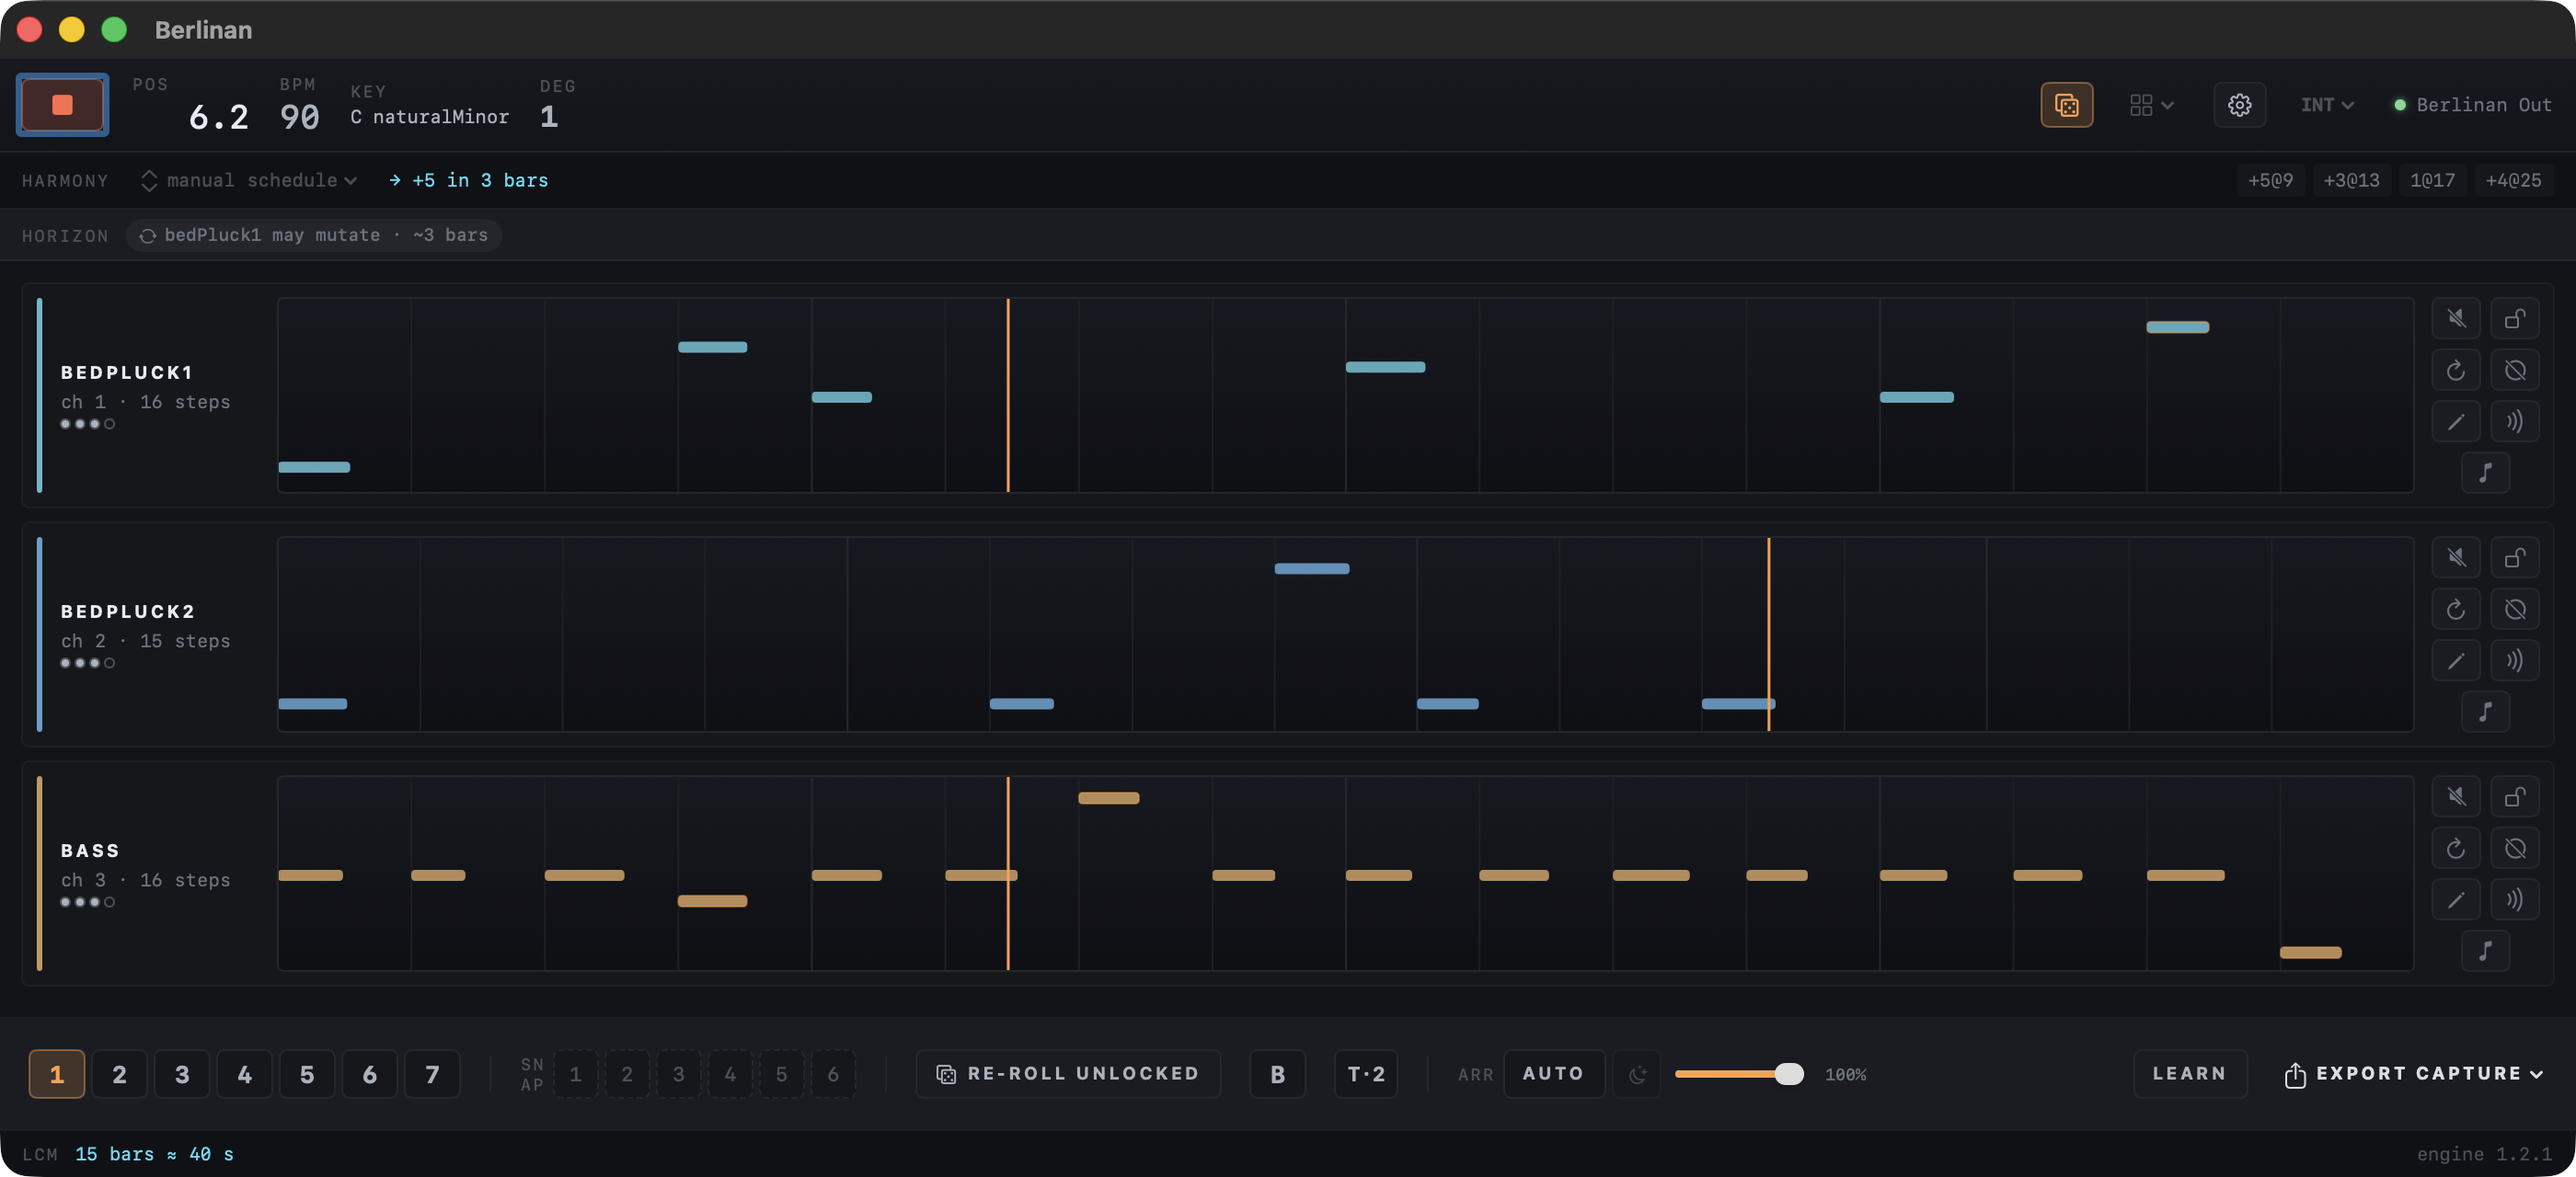
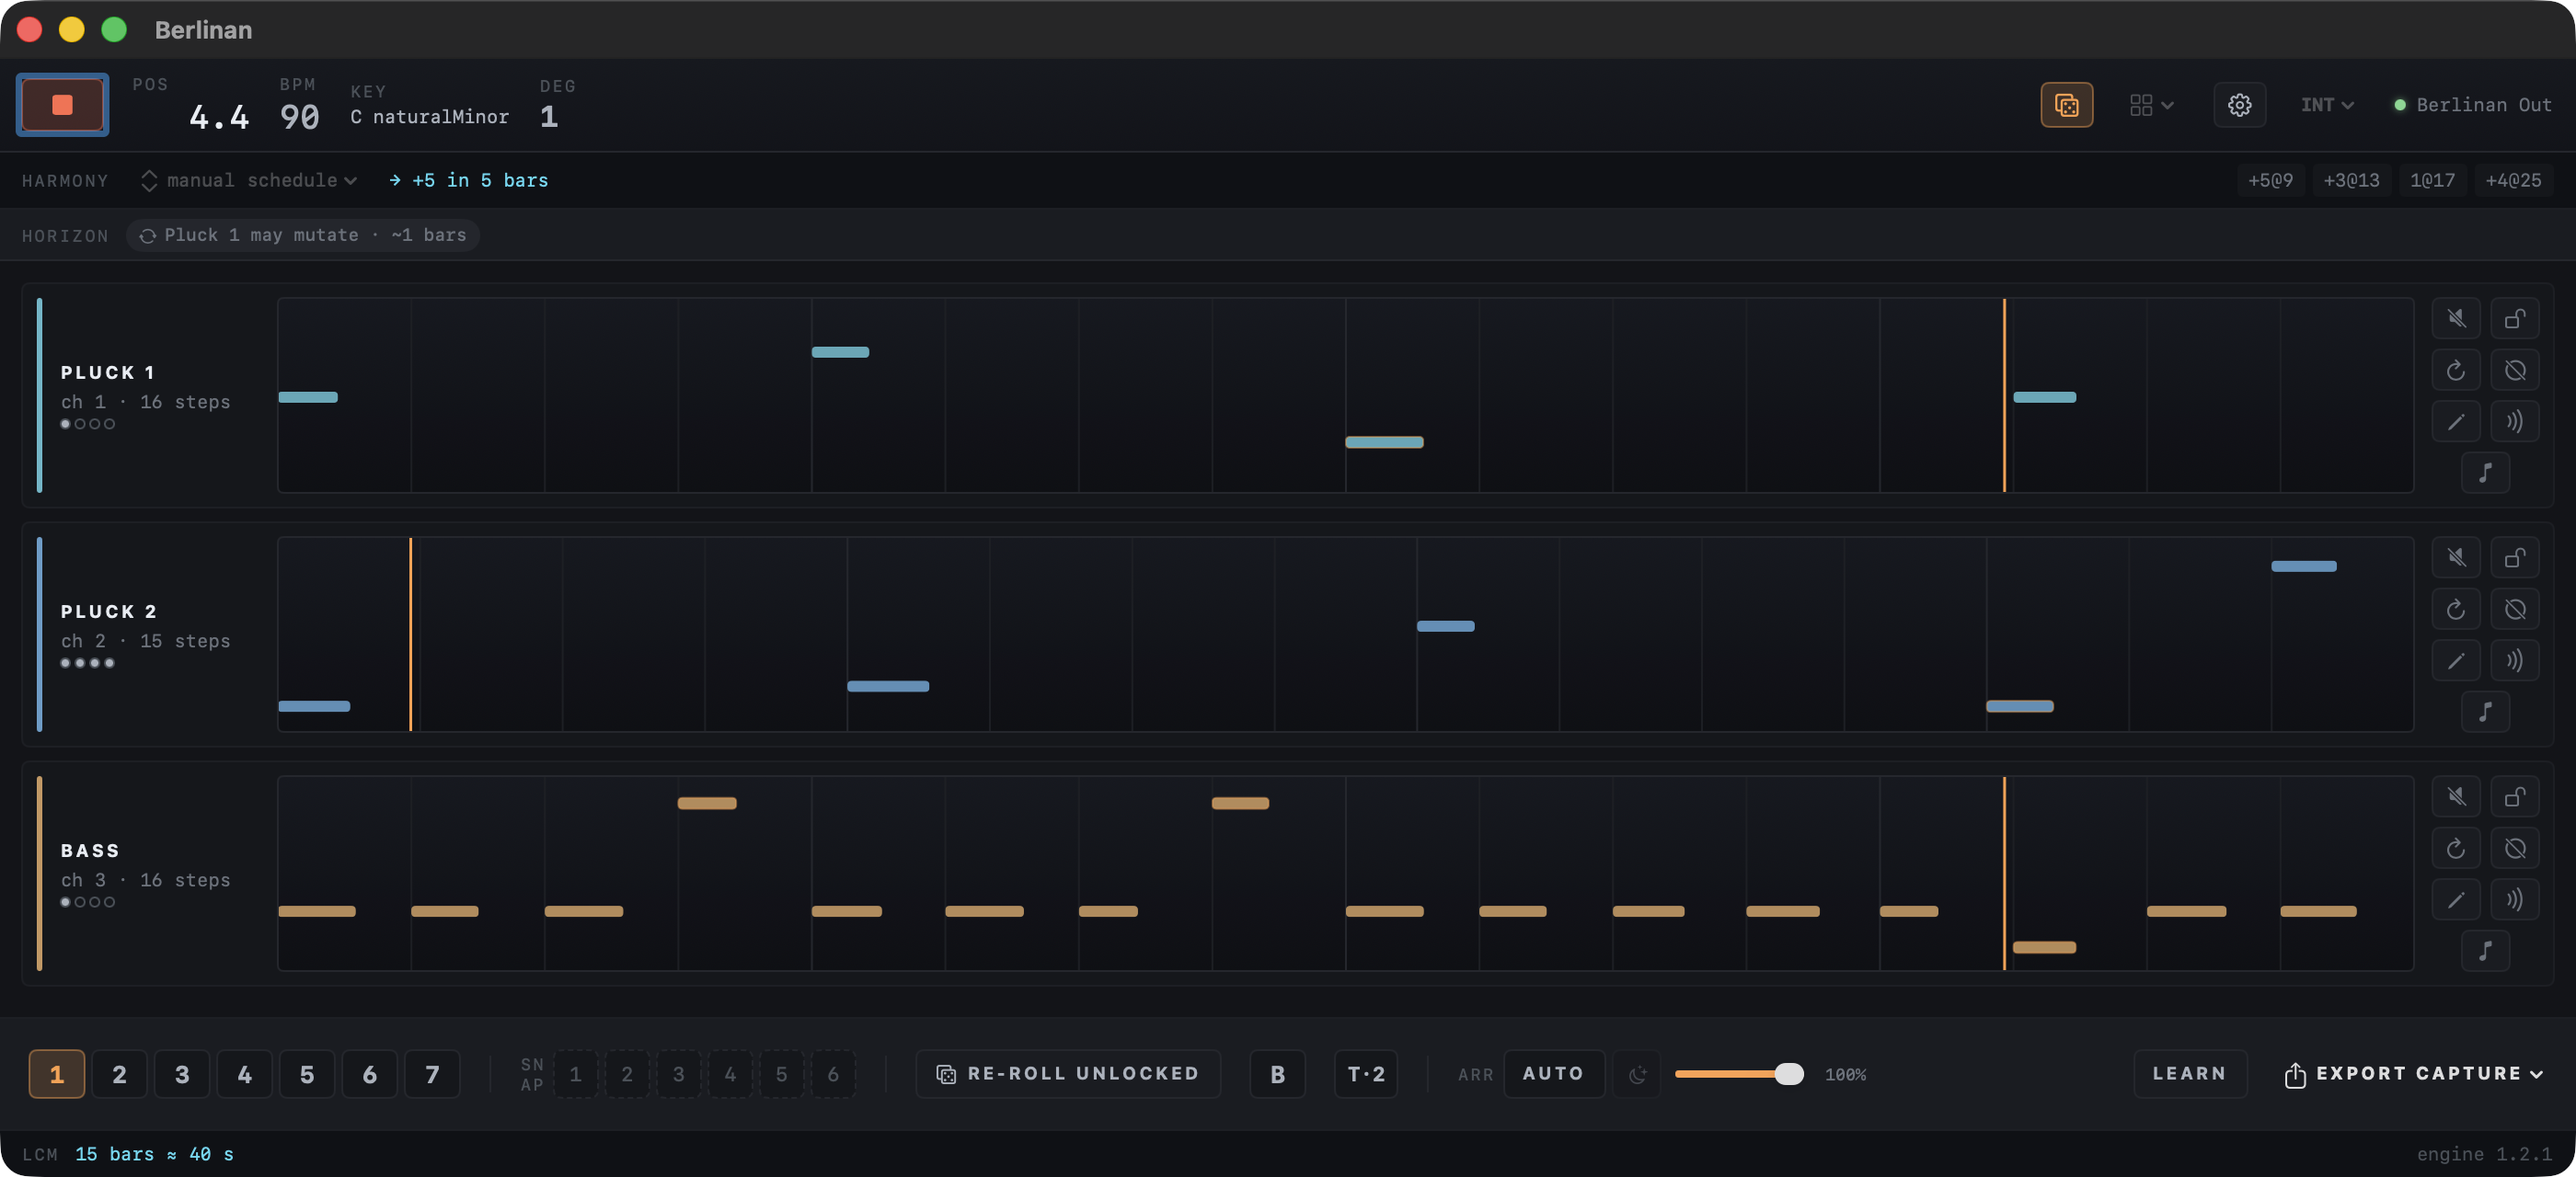
docs(site): routing list uses the app's voice names, labelled as the Full ensemble template; refreshed screenshot

diff --git a/docs/index.html b/docs/index.html
@@ -175,6 +175,9 @@
   .routing {
     display: grid; grid-template-columns: 1fr 1fr; gap: clamp(2rem, 6vw, 5rem); align-items: start;
   }
+  .routing-example { margin: 0; }
+  .routing-example figcaption { margin-bottom: 1rem; color: var(--ink2); font-size: .95rem; }
+  .routing-example figcaption b { color: var(--ink); font-weight: 600; }
   .flow { margin: 0; padding: 0; list-style: none; font-family: "JetBrains Mono", monospace; font-size: .9rem; }
   .flow li {
     display: flex; justify-content: space-between; gap: 1rem;
@@ -263,7 +266,7 @@
   <div class="wrap shot">
     <figure>
       <img src="assets/berlinan-window.png" width="2800" height="1280"
-           alt="The Berlinan window playing: three voice lanes (two plucks and a bass) with note strips and playheads, a transport bar with position, tempo and key, the harmony schedule, and a horizon strip announcing that a voice may mutate in about three bars.">
+           alt="The Berlinan window playing: three voice lanes (two plucks and a bass) with note strips and playheads, a transport bar with position, tempo and key, the harmony schedule, and a horizon strip announcing that Pluck 1 may mutate soon.">
       <figcaption>
         Two plucks, 16 and 15 steps long, over a 16-step bass. The horizon strip
         tells you what is about to change, so nothing surprises you mid-set.
@@ -315,14 +318,20 @@
           <p><b>LINK</b> Ableton Link over your network, tempo and bar phase locked both ways.</p>
         </div>
       </div>
-      <ul class="flow" aria-label="Example channel routing">
-        <li><span><span class="dot" style="--c: var(--cyan)"></span>bed pluck</span><span class="ch">ch 1</span></li>
-        <li><span><span class="dot" style="--c: #5F9EC9"></span>phasing partner</span><span class="ch">ch 2</span></li>
-        <li><span><span class="dot" style="--c: var(--amber)"></span>bass</span><span class="ch">ch 3</span></li>
-        <li><span><span class="dot" style="--c: var(--violet)"></span>chord-layer pad</span><span class="ch">ch 4</span></li>
-        <li><span><span class="dot" style="--c: #D9DDE3"></span>lead</span><span class="ch">ch 5</span></li>
-        <li><span><span class="dot" style="--c: #C96F6F"></span>heartbeat kick</span><span class="ch">ch 10</span></li>
-      </ul>
+      <figure class="routing-example">
+        <figcaption>
+          <b>Full ensemble template</b>, one voice per MIDI channel. The
+          default ensemble plays Pluck 1, Pluck 2 and Bass on channels 1 to 3.
+        </figcaption>
+        <ul class="flow">
+          <li><span><span class="dot" style="--c: var(--cyan)"></span>Pluck 1</span><span class="ch">ch 1</span></li>
+          <li><span><span class="dot" style="--c: #5F9EC9"></span>Pluck 2</span><span class="ch">ch 2</span></li>
+          <li><span><span class="dot" style="--c: var(--amber)"></span>Bass</span><span class="ch">ch 3</span></li>
+          <li><span><span class="dot" style="--c: var(--violet)"></span>Pad</span><span class="ch">ch 4</span></li>
+          <li><span><span class="dot" style="--c: #D9DDE3"></span>Lead</span><span class="ch">ch 5</span></li>
+          <li><span><span class="dot" style="--c: #C96F6F"></span>Heartbeat</span><span class="ch">ch 10</span></li>
+        </ul>
+      </figure>
     </div>
   </section>
 
